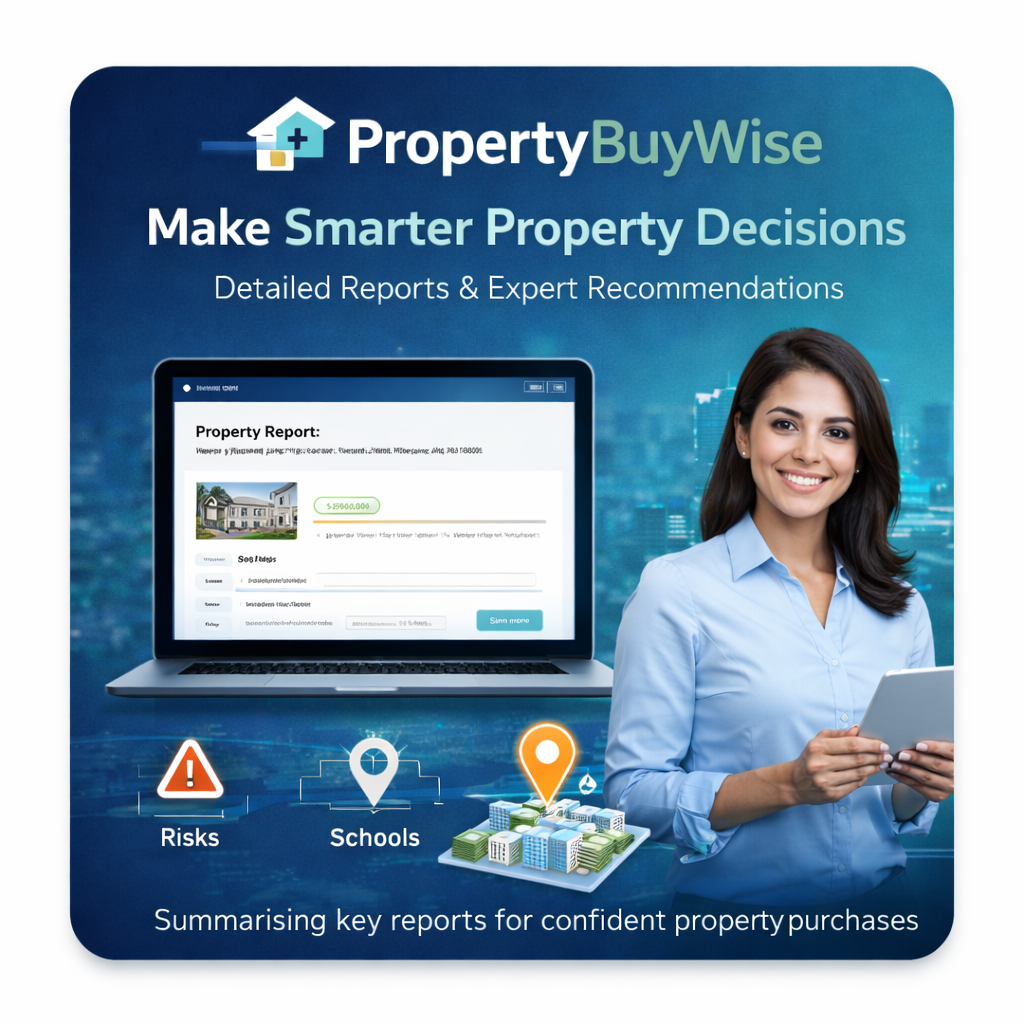
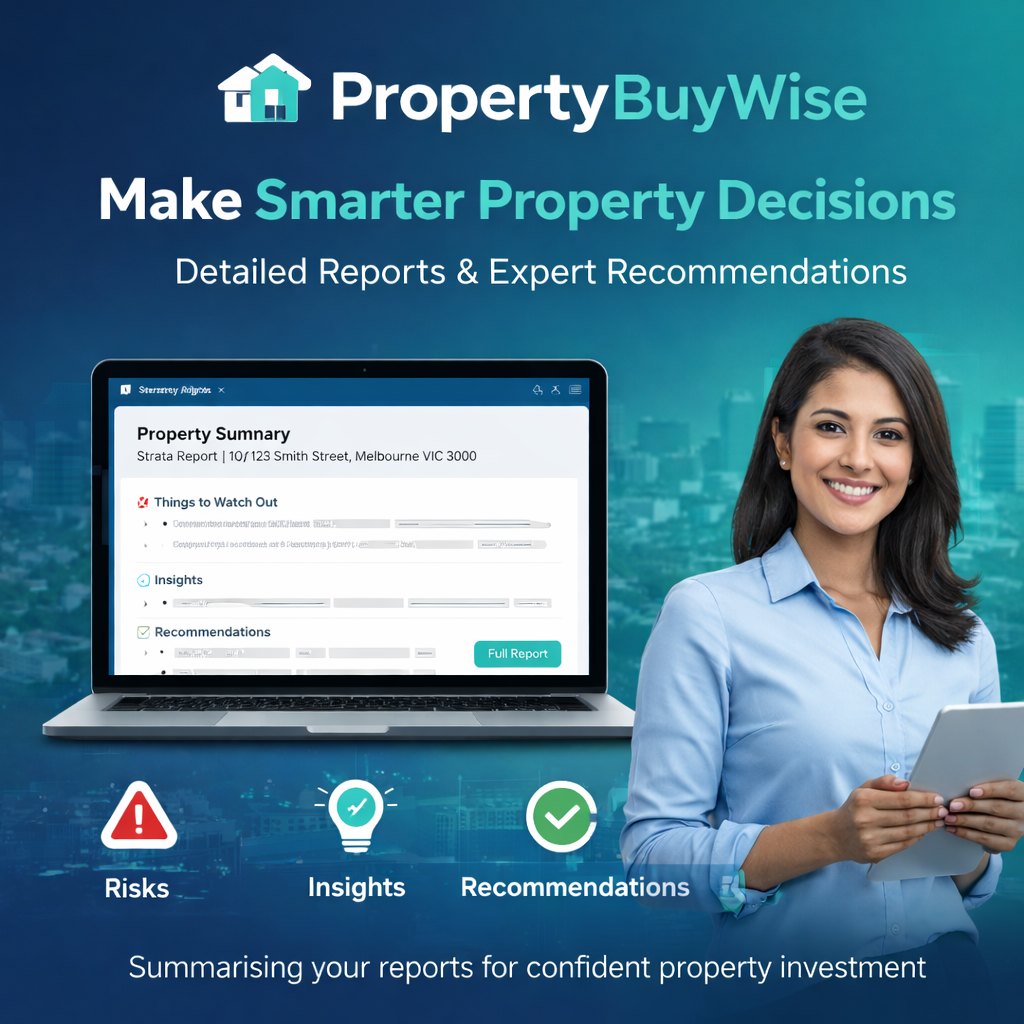
Update Property hero image, reorder products with coming soon last, and fix image sizing
- Replace Property_featured.png with new hero image
- Move coming soon apps (TeamRelay, Witness) to end of product listings
- Change featured images to object-fit: cover for uniform display across different source sizes
- Reorder products page to show launched apps before coming soon within each category

diff --git a/products.html b/products.html
@@ -100,29 +100,6 @@
                             </div>
                         </div>
 
-                        <!-- TeamRelay Product Card -->
-                        <div class="product-card">
-                            <span class="product-badge product-badge-coming-soon">Coming Soon</span>
-                            <h2 class="product-title">TeamRelay</h2>
-                            <p class="product-narrative">Language barriers don't belong in the locker room. TeamRelay lets a coach or presenter speak naturally into their iPhone while every player or attendee in the room instantly receives a translated transcription -- displayed on screen and read aloud through their device or AirPods -- in their own language. It works entirely offline over local Bluetooth or WiFi. No internet, no cloud, no accounts. Just speak and be understood.</p>
-
-                            <div class="product-features">
-                                <h4>Key Features</h4>
-                                <ul>
-                                    <li>Real-time speech translation into 14 languages</li>
-                                    <li>Fully offline -- all processing happens on-device</li>
-                                    <li>Works over Bluetooth or WiFi, no internet required</li>
-                                    <li>Breakout rooms with floor control for group discussions</li>
-                                    <li>Raise hand system for two-way multilingual communication</li>
-                                    <li>Custom branding -- upload your club or company logo</li>
-                                </ul>
-                            </div>
-
-                            <div class="product-buttons">
-                                <a href="teamrelay.html" class="btn btn-primary">Join the Waitlist</a>
-                            </div>
-                        </div>
-
                         <!-- M4SP Product Card -->
                         <div class="product-card">
                             <span class="product-badge">Web App</span>
@@ -143,6 +120,29 @@
                             <div class="product-buttons">
                                 <a href="m4sp.html" class="btn btn-secondary">Learn More</a>
                                 <a href="https://www.m4sp.digitalnomadstudio.io" class="btn btn-primary" target="_blank" rel="noopener">Launch App</a>
+                            </div>
+                        </div>
+
+                        <!-- TeamRelay Product Card -->
+                        <div class="product-card">
+                            <span class="product-badge product-badge-coming-soon">Coming Soon</span>
+                            <h2 class="product-title">TeamRelay</h2>
+                            <p class="product-narrative">Language barriers don't belong in the locker room. TeamRelay lets a coach or presenter speak naturally into their iPhone while every player or attendee in the room instantly receives a translated transcription -- displayed on screen and read aloud through their device or AirPods -- in their own language. It works entirely offline over local Bluetooth or WiFi. No internet, no cloud, no accounts. Just speak and be understood.</p>
+
+                            <div class="product-features">
+                                <h4>Key Features</h4>
+                                <ul>
+                                    <li>Real-time speech translation into 14 languages</li>
+                                    <li>Fully offline -- all processing happens on-device</li>
+                                    <li>Works over Bluetooth or WiFi, no internet required</li>
+                                    <li>Breakout rooms with floor control for group discussions</li>
+                                    <li>Raise hand system for two-way multilingual communication</li>
+                                    <li>Custom branding -- upload your club or company logo</li>
+                                </ul>
+                            </div>
+
+                            <div class="product-buttons">
+                                <a href="teamrelay.html" class="btn btn-primary">Join the Waitlist</a>
                             </div>
                         </div>
                     </div>

diff --git a/index.html b/index.html
@@ -130,17 +130,6 @@
                         <a href="m4sp.html" class="btn btn-primary">Learn More</a>
                     </div>
 
-                    <!-- TeamRelay Card -->
-                    <div class="featured-card">
-                        <img src="teamrelay-featured.png" alt="TeamRelay" class="featured-image featured-image-clickable">
-                        <span class="product-badge product-badge-coming-soon">Coming Soon</span>
-                        <span class="featured-category-label">Sports & Performance</span>
-                        <h3 class="featured-title">TeamRelay</h3>
-                        <p class="featured-tagline">Speak one language, reach every player</p>
-                        <p class="featured-description">Real-time offline speech translation for sports teams and businesses. Coach speaks, everyone understands -- in their own language.</p>
-                        <a href="teamrelay.html" class="btn btn-primary">Join the Waitlist</a>
-                    </div>
-
                     <!-- PropertyBuyWise Card -->
                     <div class="featured-card">
                         <img src="Property_featured.png" alt="PropertyBuyWise" class="featured-image featured-image-clickable">
@@ -150,6 +139,17 @@
                         <p class="featured-tagline">Make smarter property decisions</p>
                         <p class="featured-description">Upload property reports and get instant analysis with risk ratings and negotiation points.</p>
                         <a href="propertybuywise.html" class="btn btn-primary">Learn More</a>
+                    </div>
+
+                    <!-- TeamRelay Card -->
+                    <div class="featured-card">
+                        <img src="teamrelay-featured.png" alt="TeamRelay" class="featured-image featured-image-clickable">
+                        <span class="product-badge product-badge-coming-soon">Coming Soon</span>
+                        <span class="featured-category-label">Sports & Performance</span>
+                        <h3 class="featured-title">TeamRelay</h3>
+                        <p class="featured-tagline">Speak one language, reach every player</p>
+                        <p class="featured-description">Real-time offline speech translation for sports teams and businesses. Coach speaks, everyone understands -- in their own language.</p>
+                        <a href="teamrelay.html" class="btn btn-primary">Join the Waitlist</a>
                     </div>
 
                     <!-- Witness Capture Proof Card -->

diff --git a/styles.css b/styles.css
@@ -640,6 +640,11 @@ body {
     gap: 2rem;
 }
 
+.featured-grid-uniform .featured-card {
+    max-width: none;
+    margin: 0;
+}
+
 .featured-card {
     background: white;
     border-radius: 16px;
@@ -672,7 +677,7 @@ body {
     width: 100%;
     height: auto;
     aspect-ratio: 1 / 1;
-    object-fit: contain;
+    object-fit: cover;
     object-position: center;
     display: block;
     max-width: 100%;
